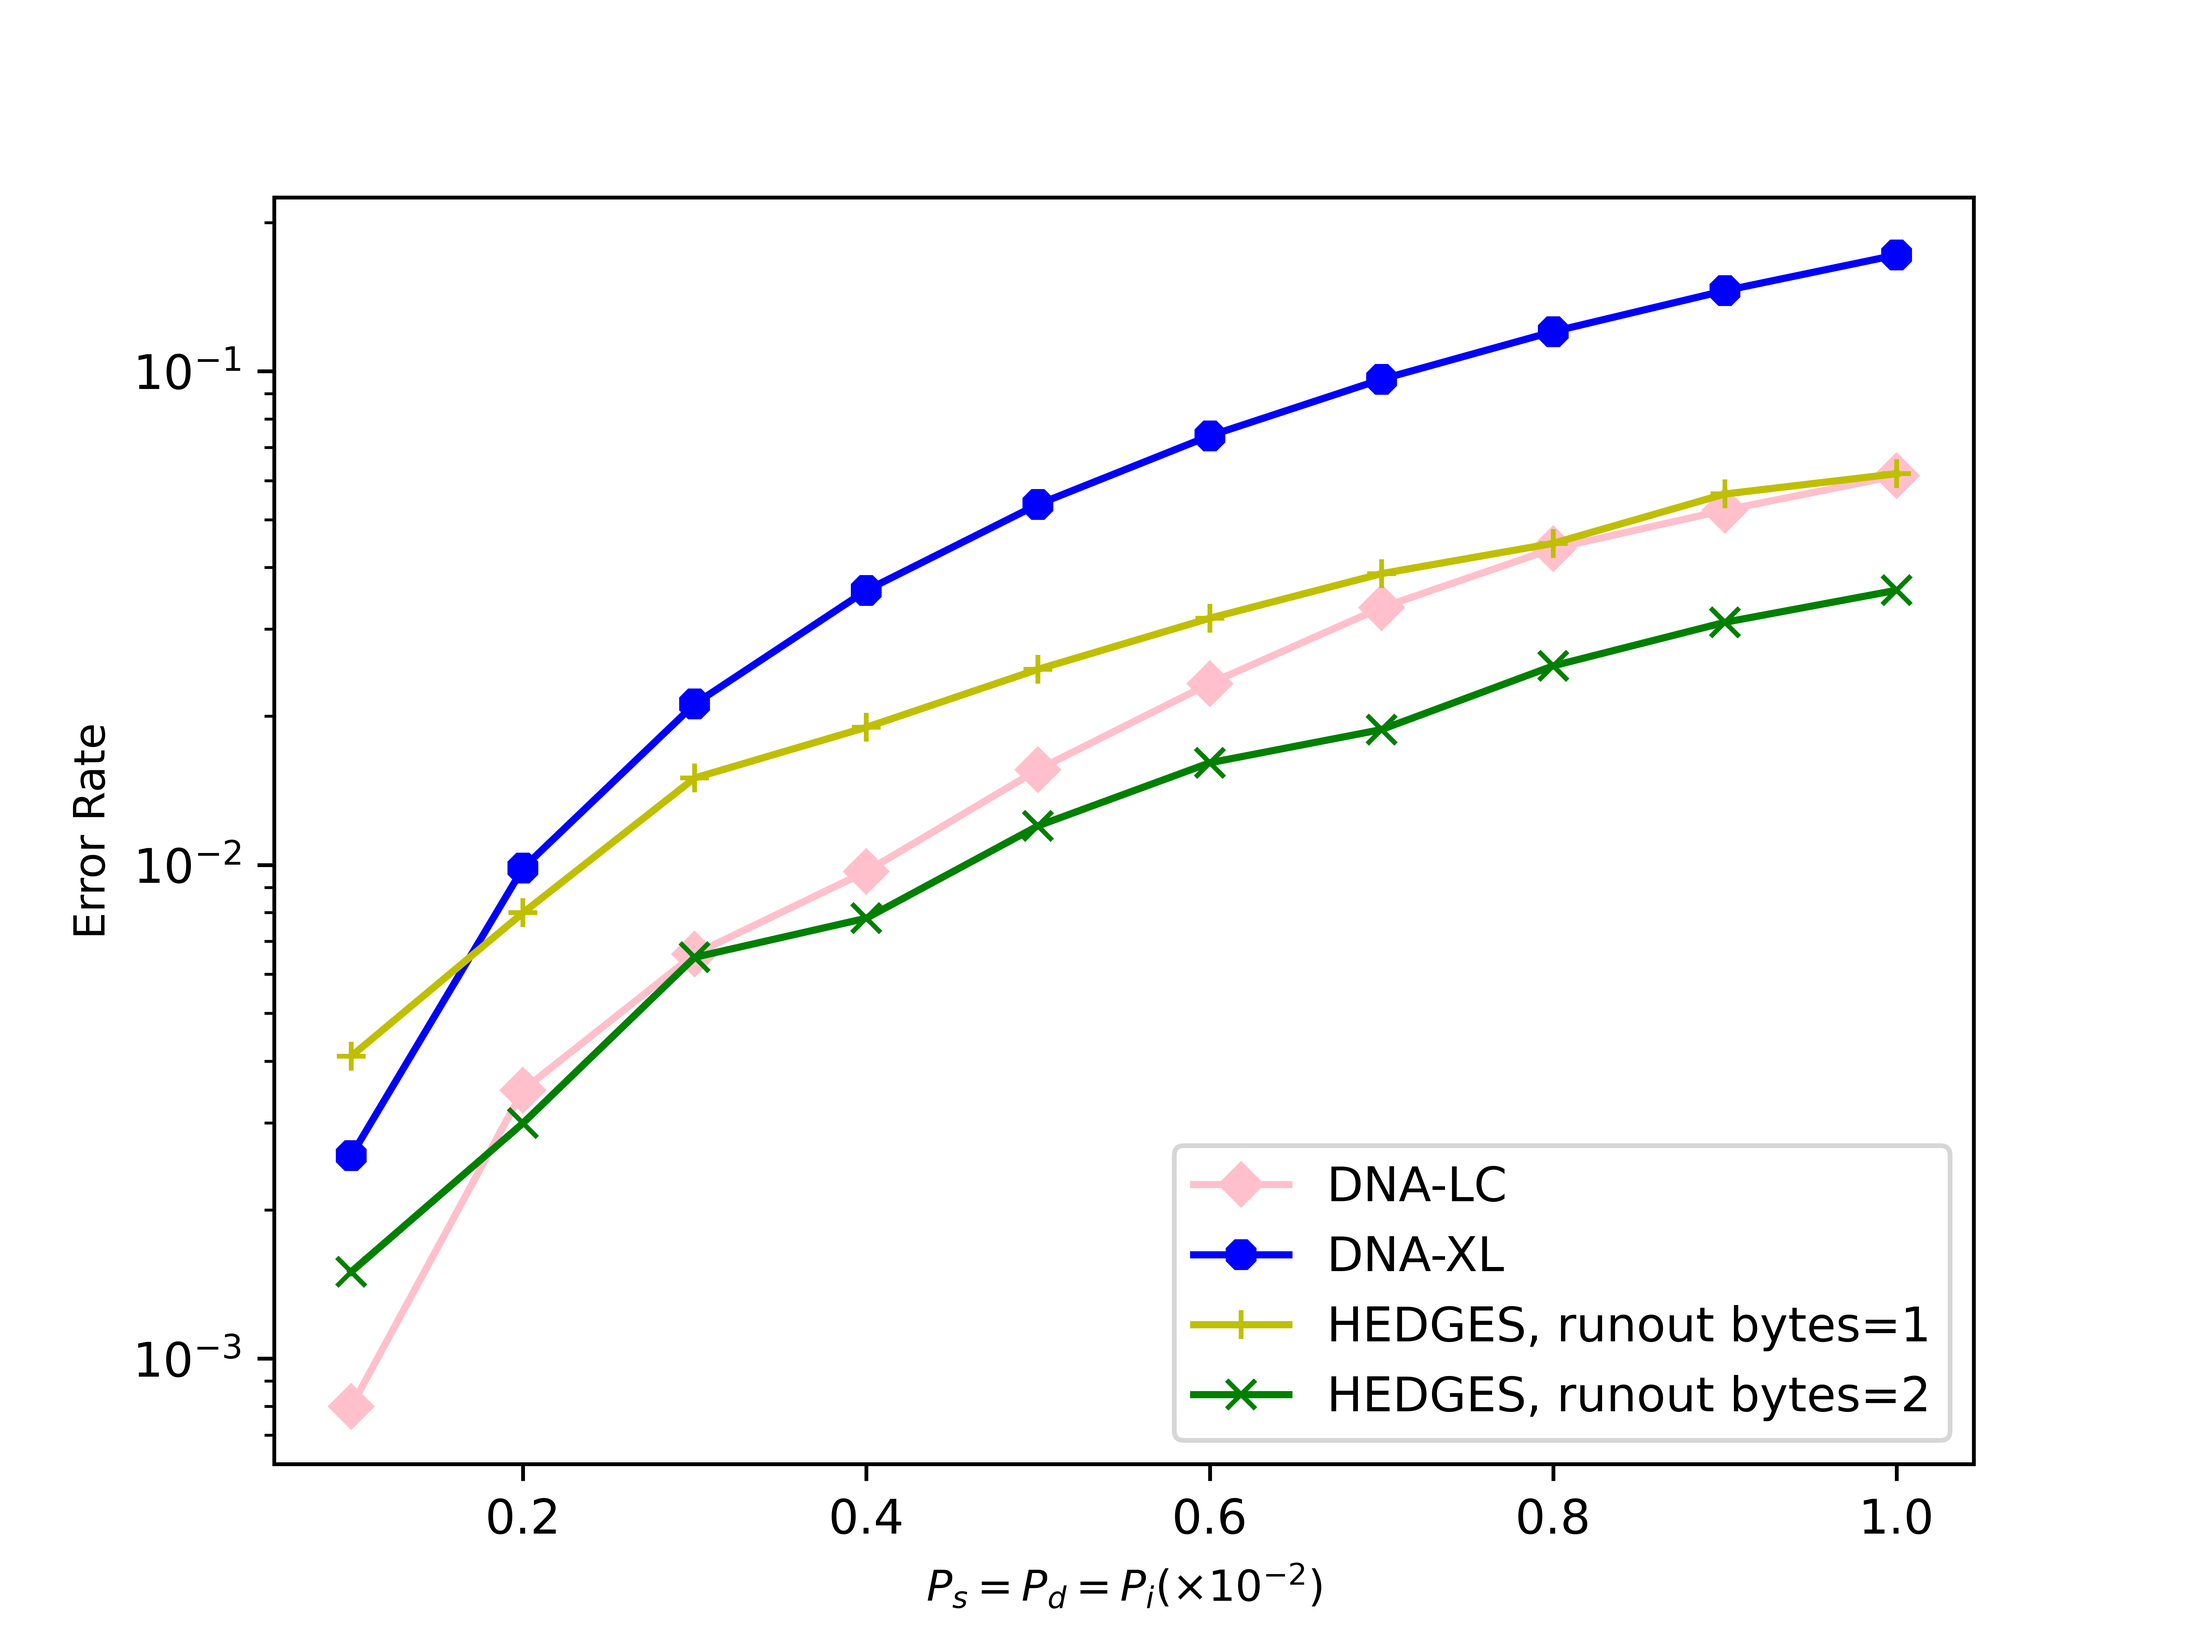
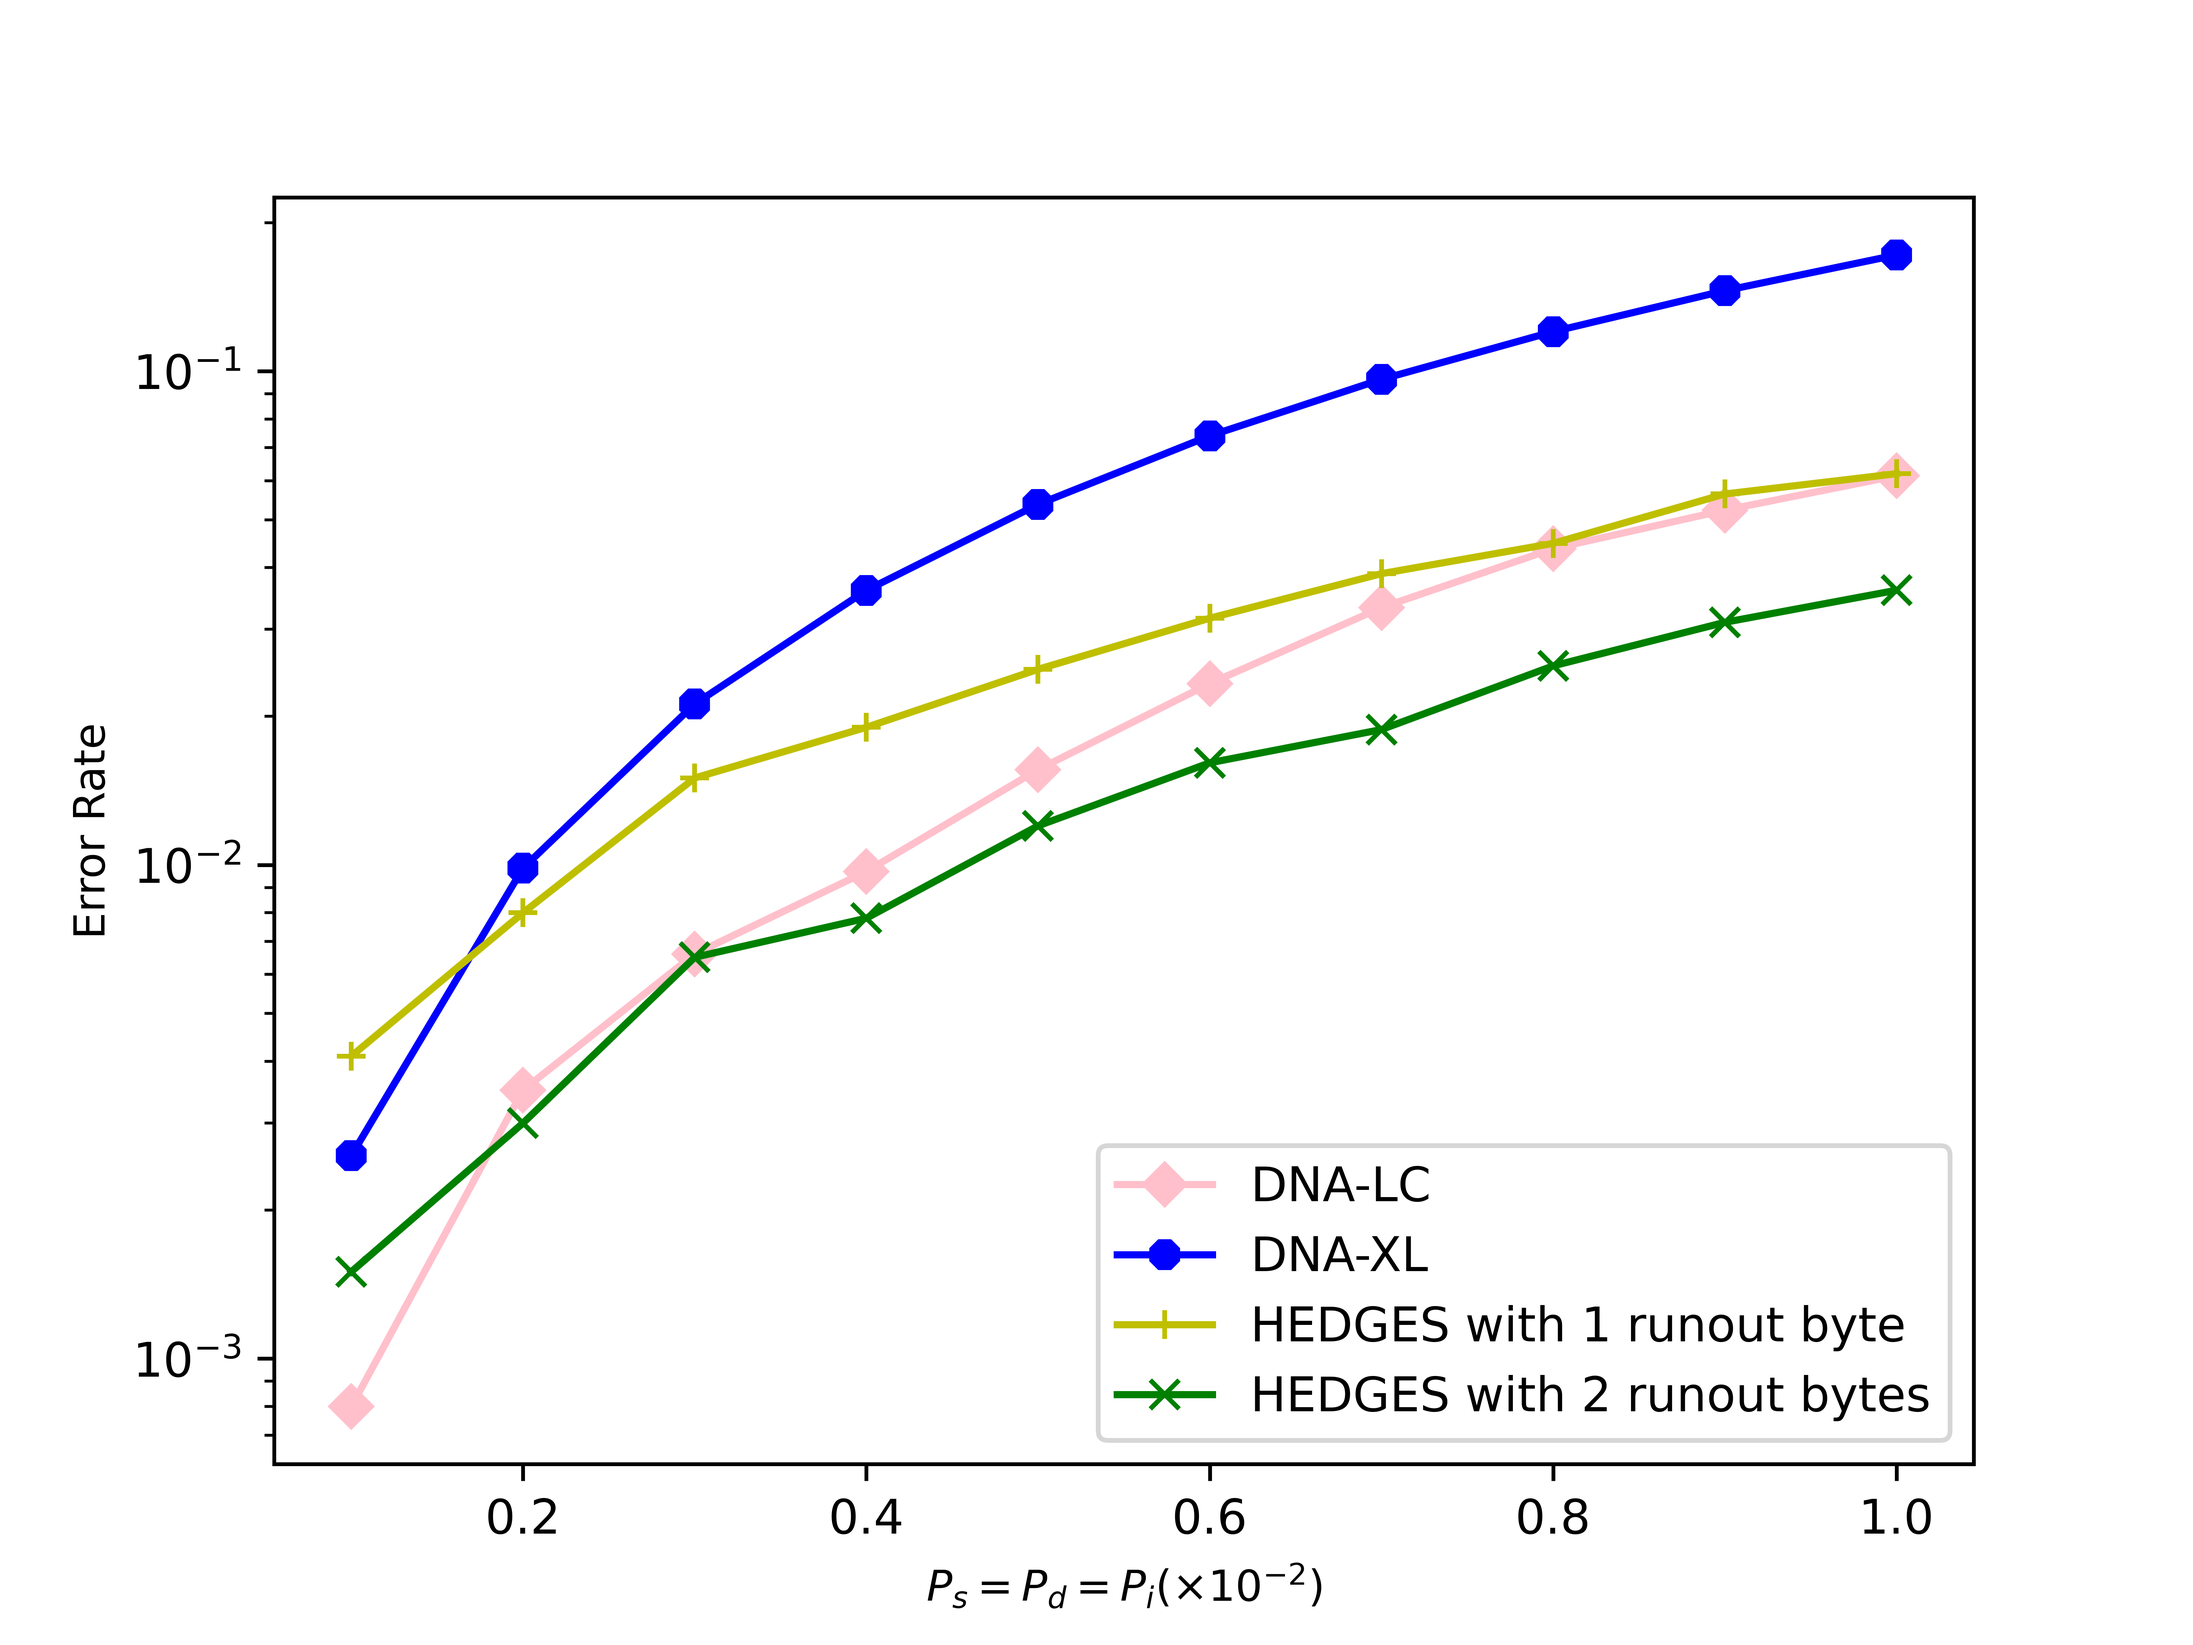
Update some image annotations

Changed region(s): [[0.5, 0.6875, 0.875, 0.875]]

diff --git a/test/plot5.py b/test/plot5.py
@@ -14,7 +14,7 @@ l2, = plt.plot(x,y0,marker='8', color='b')
 l3, = plt.plot(x,y2,marker='+', color='y')
 l4, = plt.plot(x,y3,marker='x', color='g')
 plt.yscale('log')
-plt.legend(handles = [l1,l2,l3,l4] ,labels = ['DNA-LC','DNA-XL','HEDGES, runout bytes=1','HEDGES, runout bytes=2'],loc = 'best')
+plt.legend(handles = [l1,l2,l3,l4] ,labels = ['DNA-LC','DNA-XL','HEDGES with 1 runout byte','HEDGES with 2 runout bytes'],loc = 'best')
 plt.xlabel('$P_s = 0, P_d = P_i(\\times 10^{-2})$',fontsize = 9)
 plt.ylabel('Error Rate',fontsize = 9)
 plt.savefig('different_2.png', dpi=1000)

diff --git a/test/plot4.py b/test/plot4.py
@@ -14,7 +14,7 @@ l2, = plt.plot(x,y0,marker='8', color='b')
 l3, = plt.plot(x,y2,marker='+', color='y')
 l4, = plt.plot(x,y3,marker='x', color='g')
 plt.yscale('log')
-plt.legend(handles = [l1,l2,l3,l4] ,labels = ['DNA-LC','DNA-XL','HEDGES, runout bytes=1','HEDGES, runout bytes=2'],loc = 'best')
+plt.legend(handles = [l1,l2,l3,l4] ,labels = ['DNA-LC','DNA-XL','HEDGES with 1 runout byte','HEDGES with 2 runout bytes'],loc = 'best')
 plt.xlabel('$P_s = P_d = P_i(\\times 10^{-2})$',fontsize = 9)
 plt.ylabel('Error Rate',fontsize = 9)
 plt.savefig('different_1.png', dpi=1000)
